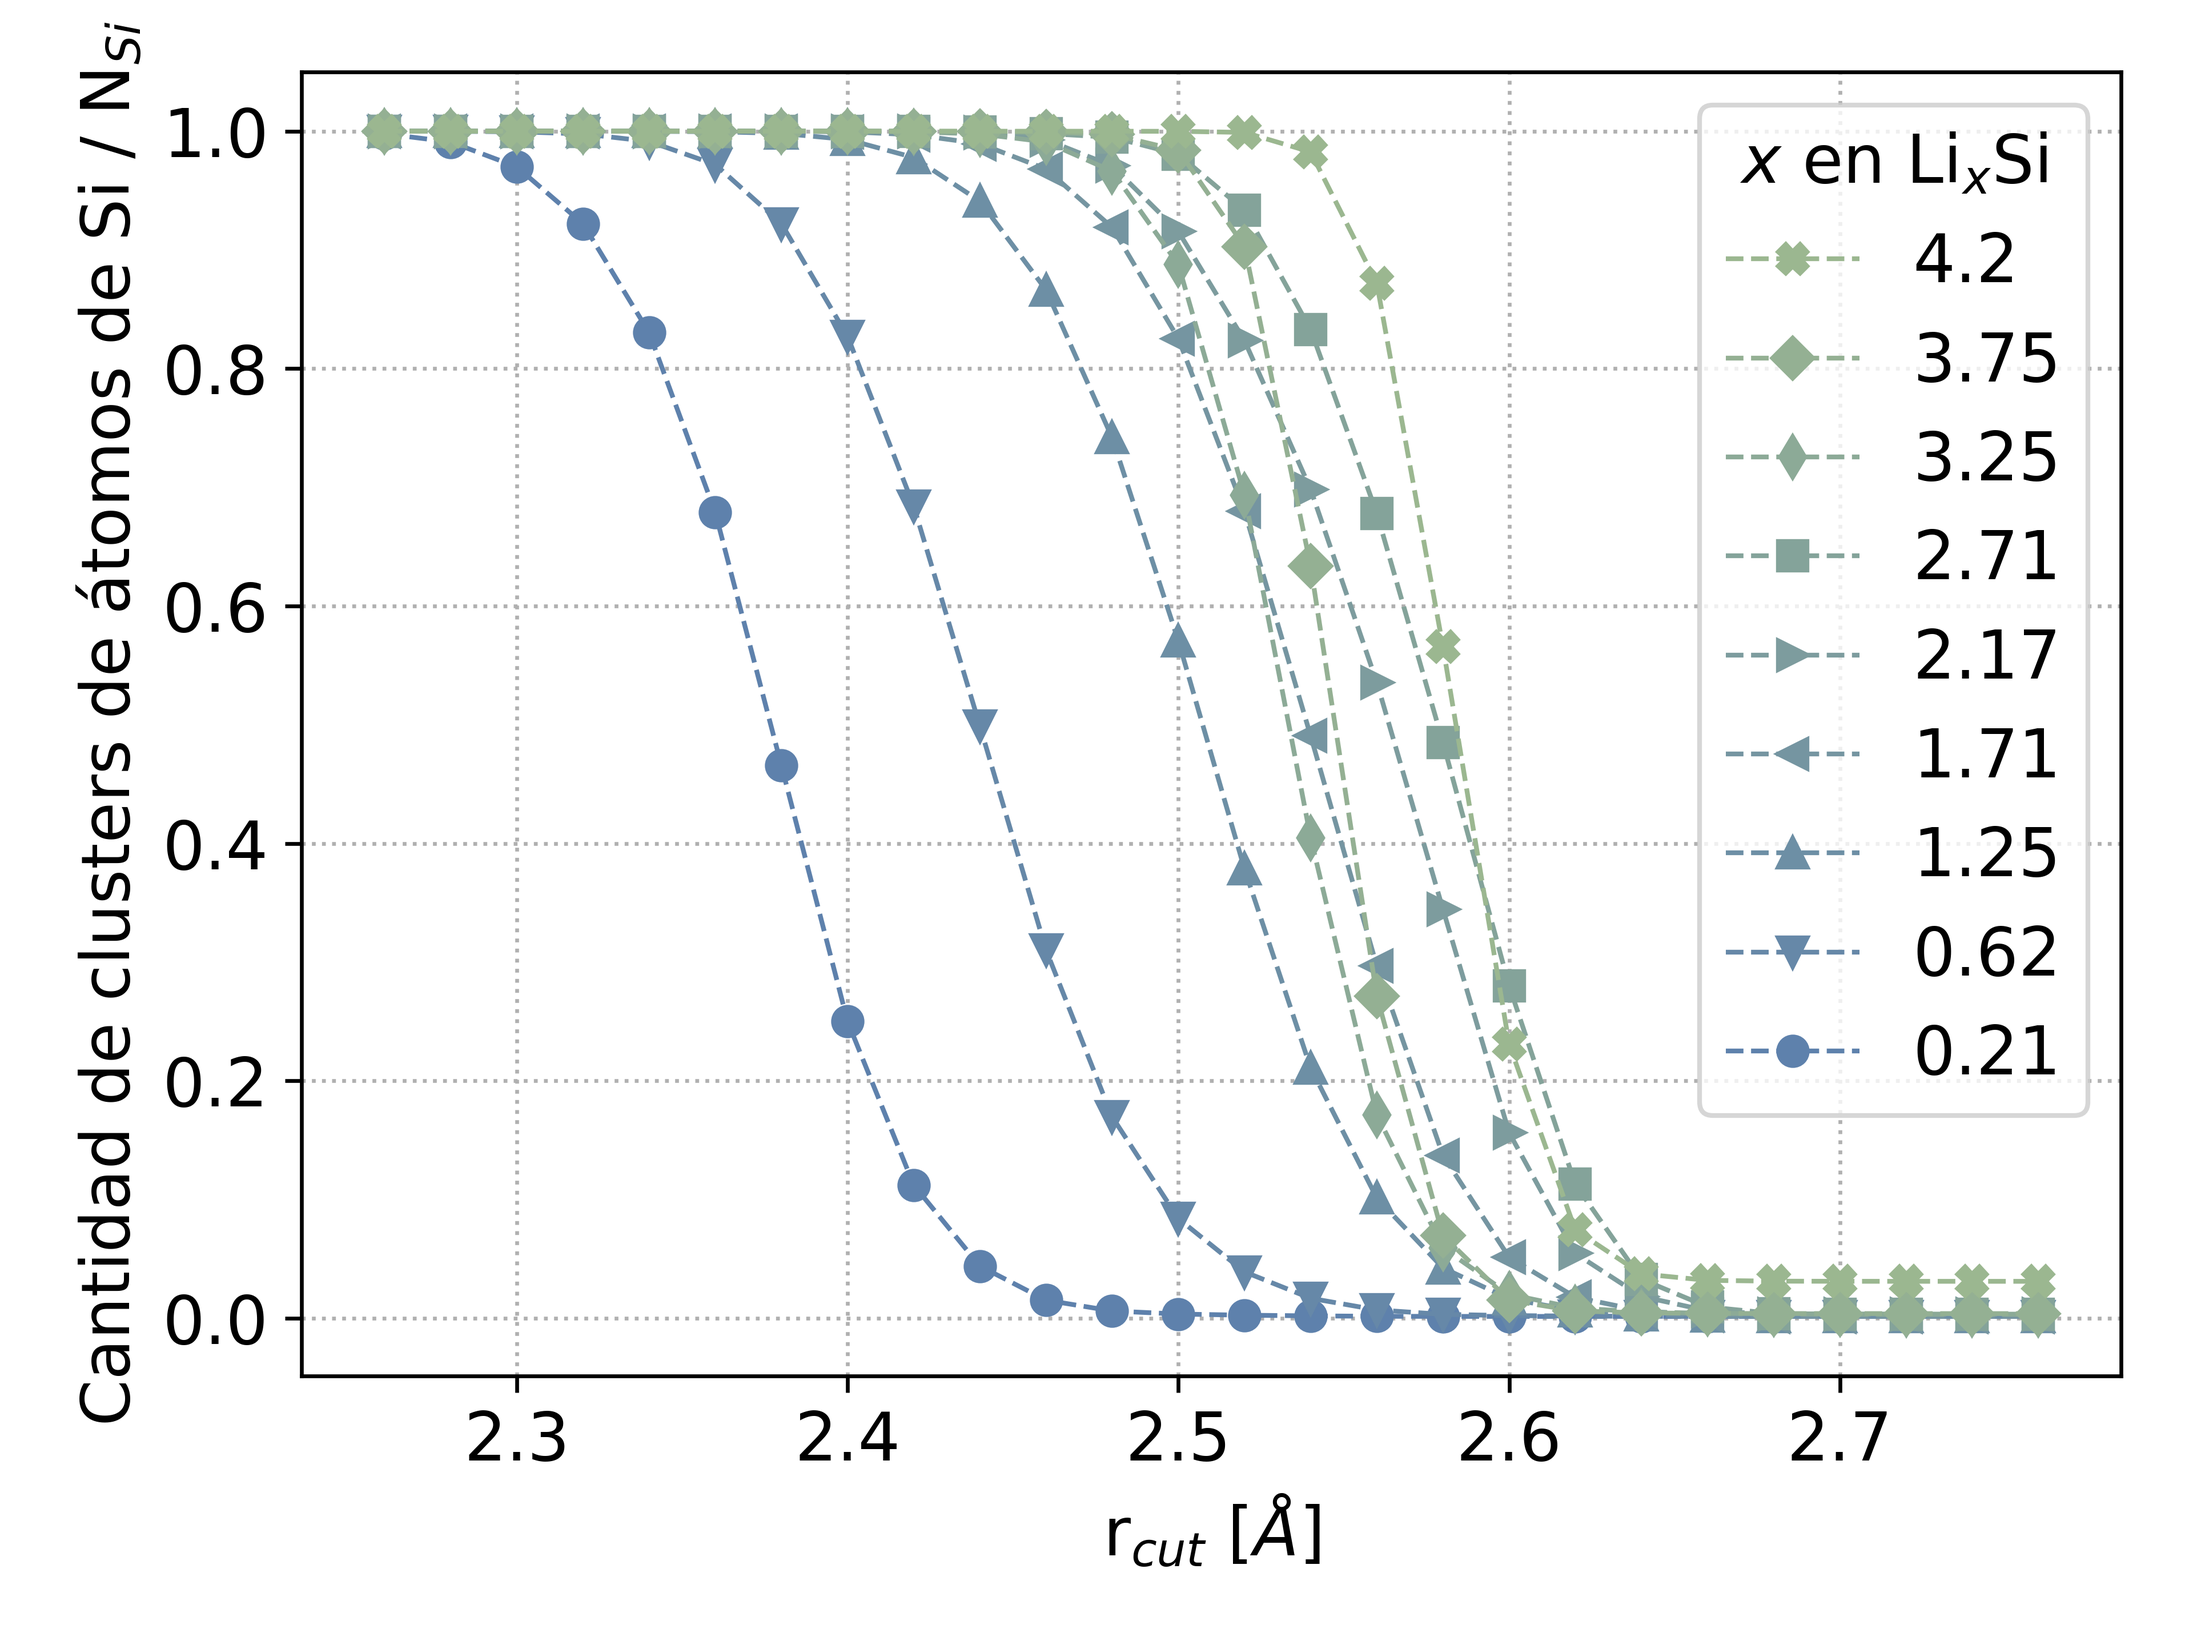
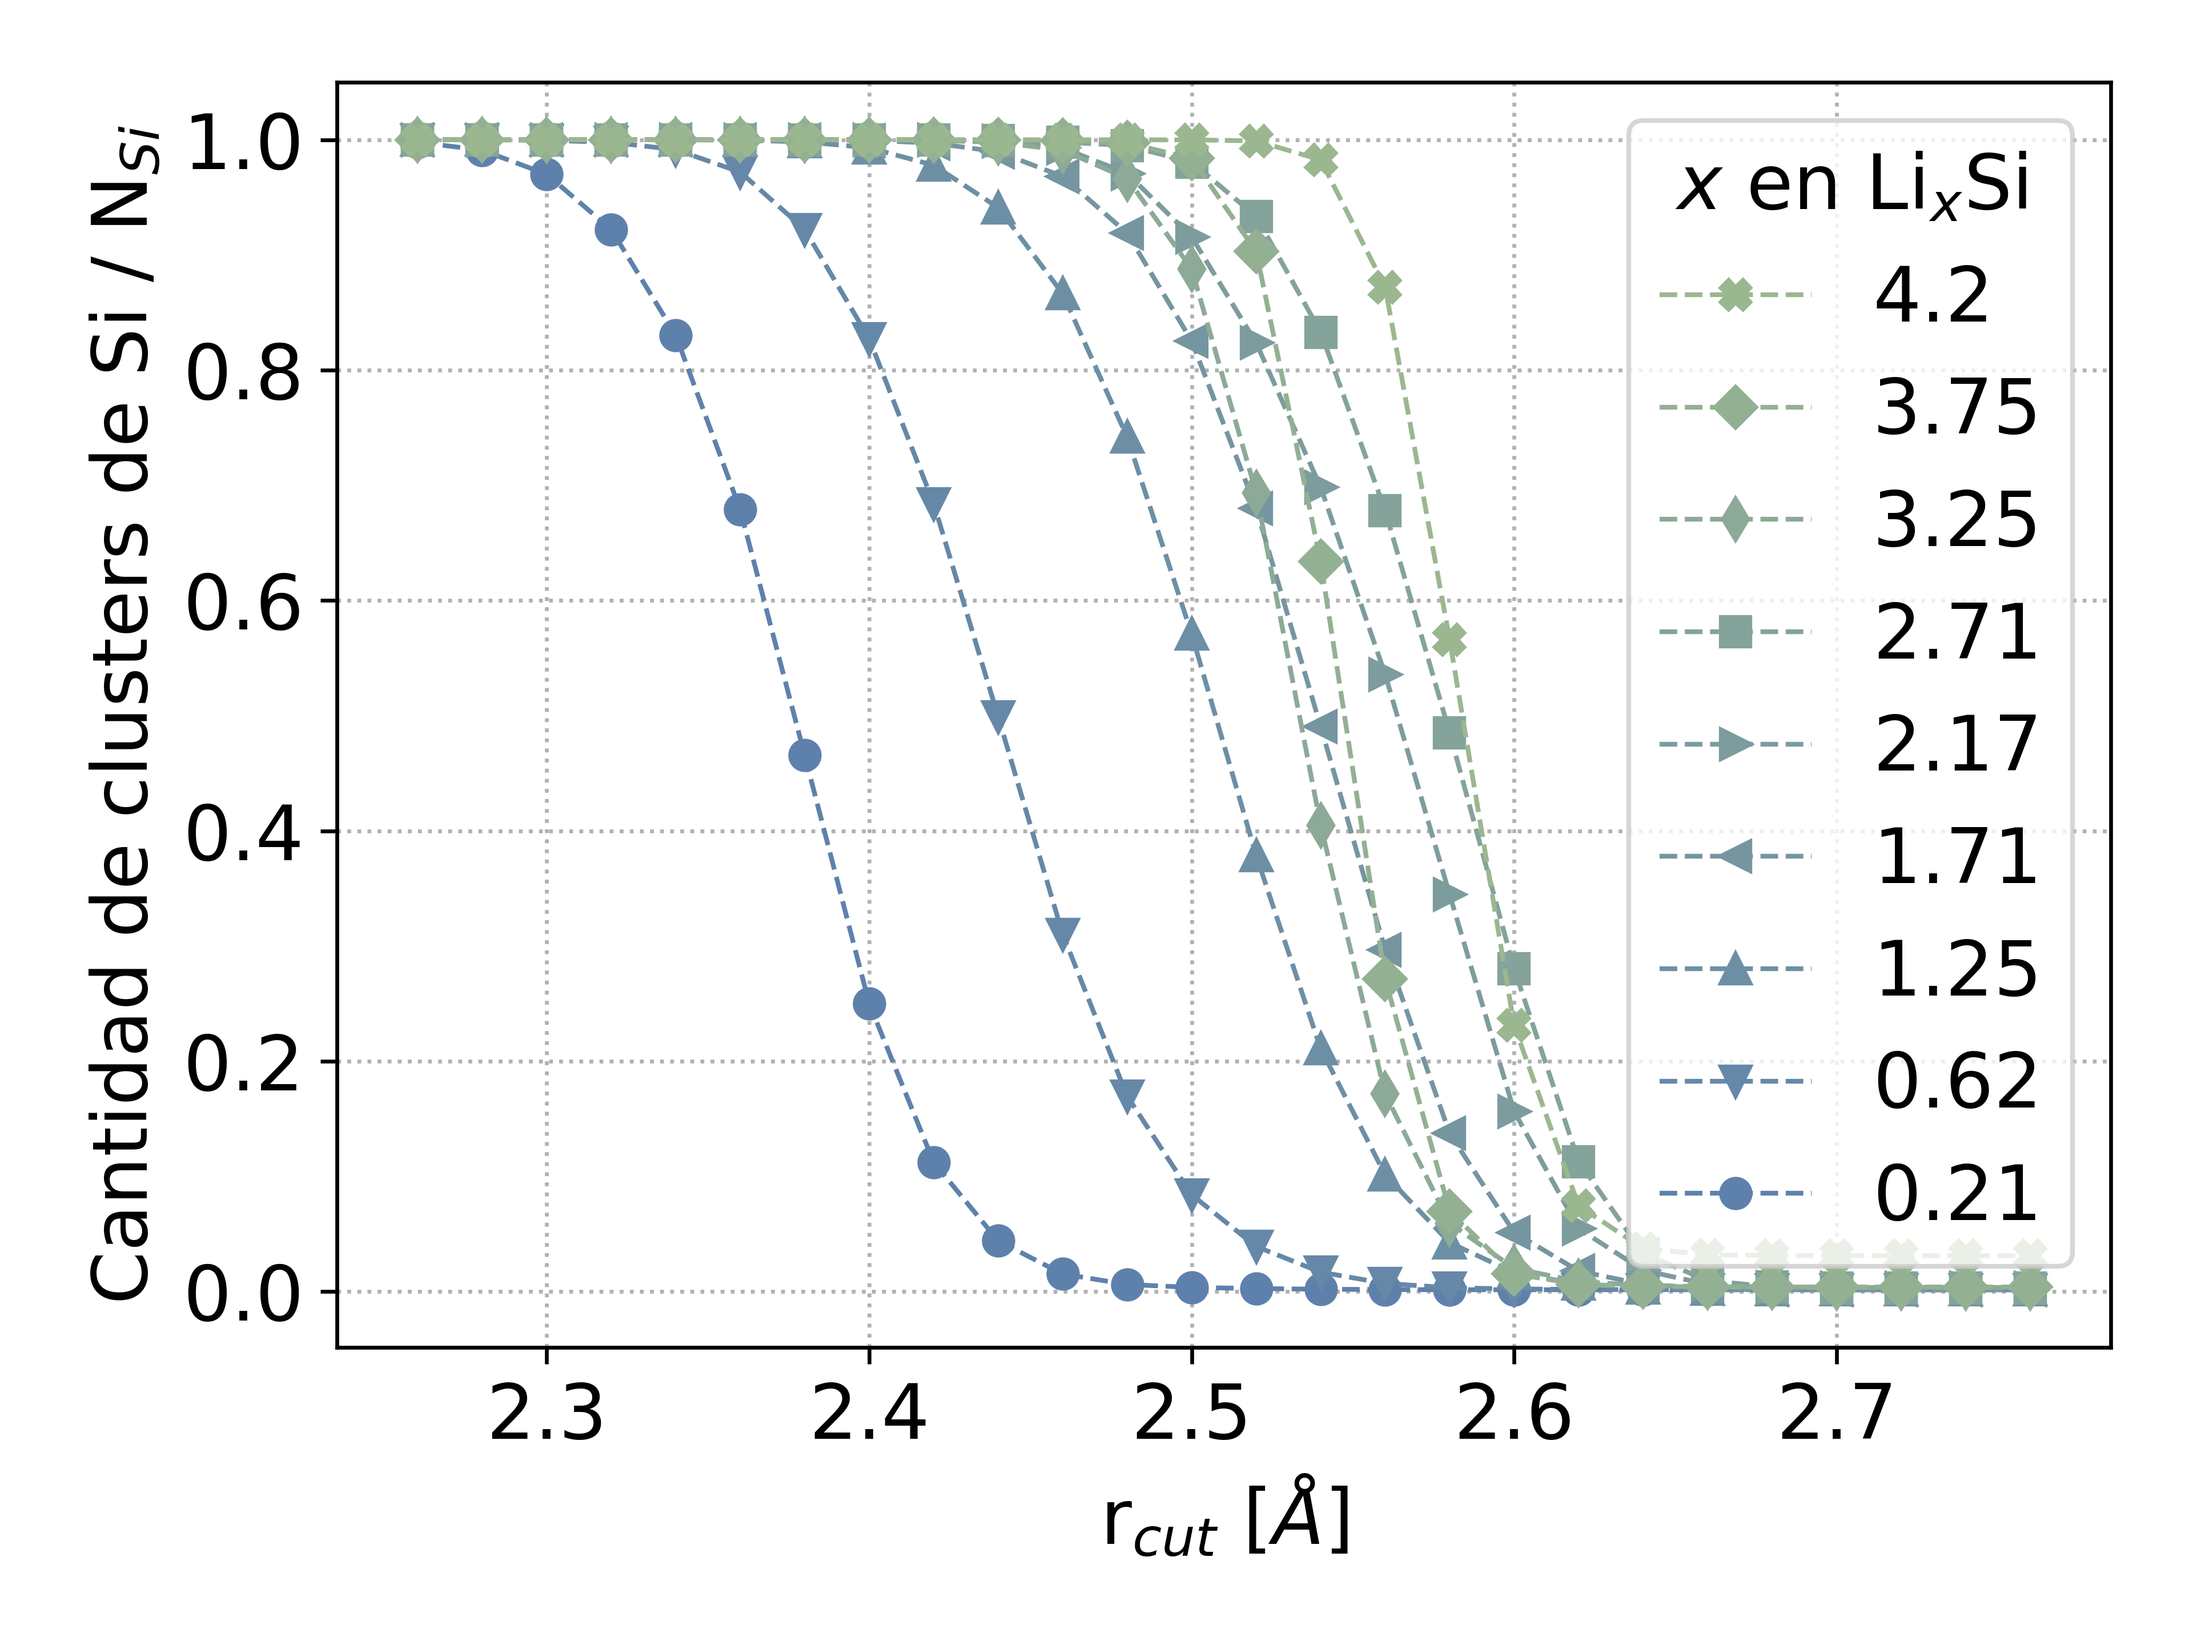
tamaño de la letra en los gráficos

diff --git a/src/figs/caracterizacion/voltaje.py b/src/figs/caracterizacion/voltaje.py
@@ -16,6 +16,7 @@ xdft, vdft = np.loadtxt("_data/voltaje/v-chev.dat", delimiter=",", unpack=True)
 xexp1, vexp1 = np.loadtxt("_data/voltaje/v1-exp.dat", delimiter=",", unpack=True)
 xexp2, vexp2 = np.loadtxt("_data/voltaje/v2-exp.dat", delimiter=",", unpack=True)
 
+plt.rcParams.update({"font.size": 12})
 fig, ax = plt.subplots()
 
 ax.set_xlabel(r"$x$ en Li$_x$Si")
@@ -37,7 +38,8 @@ ax.legend(loc=3)
 ####################        formation energy inset         #######################
 fontsize = 8
 
-left, bottom, width, height = [0.61, 0.527, 0.35, 0.35]
+# left, bottom, width, height = [0.61, 0.527, 0.35, 0.35]  # font.size default
+left, bottom, width, height = [0.55, 0.529, 0.35, 0.35]  # font.size 12
 ax2 = fig.add_axes([left, bottom, width, height])
 
 ax2.tick_params(axis="both", which="major", labelsize=fontsize)
@@ -54,6 +56,7 @@ ax2.plot(x, fes, color=nordred, label="spline")
 ax2.legend(prop={"size": fontsize})
 ##################################################################################
 
-fig.tight_layout()
+# fig.tight_layout()  # font.size default
 
 fig.savefig("voltaje.png", dpi=600)
+plt.show()

diff --git a/src/figs/caracterizacion/interconexiones.py b/src/figs/caracterizacion/interconexiones.py
@@ -18,6 +18,7 @@ nordcolors = [nordorange, nordpink, nordyellow, nordgreen, nordred, nordblue]
 concentraciones = np.array([[0.21, 0.62, 1.25], [1.71, 2.17, 2.71], [3.25, 3.75, 4.2]])
 labels = ["0 átomos", "1 átomo", "2 átomo", "3 átomos", "4 átomos", "+5 átomos"]
 
+plt.rcParams.update({"font.size": 12})
 fig, axes = plt.subplots(3, 3, sharex=True, sharey=True)
 
 fig.text(0.5, 0.005, r"r [$\AA$]", ha="center")
@@ -37,7 +38,7 @@ for conc, axis in zip(concentraciones, axes):
             ax.plot(ges[0], g, color=c, label=l)
         ax.plot(ges[0], ges[1:].sum(axis=0), color=nordgray, label="total")
 
-        ax.text(6, 1.55, f"x = {x}")
+        ax.text(5.75, 1.45, f"x = {x}")
 
         if x == 1.25:
             ax.legend(bbox_to_anchor=(1.04, 1), loc="upper left", prop={"size": 8})

diff --git a/src/figs/caracterizacion/energias.py b/src/figs/caracterizacion/energias.py
@@ -4,6 +4,7 @@
 """Todos los histogramas de energias potencial."""
 
 import matplotlib.pyplot as plt
+from matplotlib.ticker import FormatStrFormatter
 import numpy as np
 
 nordred = "#BF616A"
@@ -19,6 +20,7 @@ anchos = np.array(
     [[0.002, 0.001, 0.0009], [0.0009, 0.0009, 0.0009], [0.0009, 0.0009, 0.0009]]
 )
 
+plt.rcParams.update({"font.size": 12})
 fig, axes = plt.subplots(3, 3, sharey="row")
 
 fig.text(0.5, 0.005, "E / N [eV]", ha="center")
@@ -29,6 +31,8 @@ for conc, axis, anch in zip(concentraciones, axes, anchos):
 
         ax.grid(axis="x", linestyle=":")
         ax.set_ylim((0.0, 0.3))
+
+        ax.xaxis.set_major_formatter(FormatStrFormatter("%.2f"))
 
         if x in [0.21, 2.17, 4.2]:
             xx, yy = np.loadtxt(f"_data/energias/md/{x}.dat", unpack=True)

diff --git a/src/figs/introduccion/densidad_de_energia.py b/src/figs/introduccion/densidad_de_energia.py
@@ -15,6 +15,7 @@ nordgreen = "#A3BE8C"
 nordblue = "#5E81AC"
 
 
+plt.rcParams.update({"font.size": 12})
 fig, ax = plt.subplots()
 
 ax.set_xlim((0, 700))
@@ -23,8 +24,8 @@ ax.set_ylim((0, 1100))
 ax.set_xlabel(r"Densidad de energía gravimétrica [Wh/kg]")
 ax.set_ylabel(r"Densidad de energía volumétrica [Wh/L]")
 
-ax.text(500, 25, "Más livianas")
-ax.text(10, 800, "Más chicas", rotation="vertical")
+ax.text(475, 17.5, "Más livianas", fontsize=14)
+ax.text(10, 750, "Más chicas", rotation="vertical", fontsize=14)
 
 ax.arrow(40, 750, 0, 300, width=2, length_includes_head=True, head_length=15, head_width=5, color=nordgray)
 ax.arrow(475, 75, 180, 0, width=2, length_includes_head=True, head_length=10, head_width=10, color=nordgray)

diff --git a/src/figs/caracterizacion/cluster-nclusters.py b/src/figs/caracterizacion/cluster-nclusters.py
@@ -18,11 +18,11 @@ concentraciones = [0.21, 0.62, 1.25, 1.71, 2.17, 2.71, 3.25, 3.75, 4.2]
 nsis = [667, 670, 671, 672, 319, 319, 320, 288, 320]
 n = len(concentraciones)
 
-plt.rcParams.update({"font.size": 14})
+plt.rcParams.update({"font.size": 16})
 fig, ax = plt.subplots()
 
 ax.set_xlabel(r"r$_{cut}$ [$\AA$]")
-ax.set_ylabel(r"Cantidad de clusters de átomos de Si / N$_{Si}$")
+ax.set_ylabel(r"Cantidad de clusters de Si / N$_{Si}$")
 
 ax.grid(axis="both", linestyle=":")
 

diff --git a/src/figs/metodos/lj.py b/src/figs/metodos/lj.py
@@ -1,3 +1,5 @@
+#!/usr/bin/env python
+# -*- coding: utf-8 -*-
 import matplotlib.pyplot as plt
 import numpy as np
 
@@ -6,6 +8,8 @@ x = np.linspace(0.8, 4, 500)
 xinv6 = 1 / x ** 6
 xinv12 = 1 / x ** 12
 lj = 4 * (xinv12 - xinv6)
+
+plt.rcParams.update({"font.size": 12})
 
 plt.xticks([0, 1, 2, 3, 4])
 plt.xlim((0, 4))

diff --git a/src/figs/caracterizacion/cluster-isolated.py b/src/figs/caracterizacion/cluster-isolated.py
@@ -17,7 +17,7 @@ def color_fader(mix):
 concentraciones = [0.21, 0.62, 1.25, 1.71, 2.17, 2.71, 3.25, 3.75, 4.2]
 n = len(concentraciones)
 
-plt.rcParams.update({"font.size": 14})
+plt.rcParams.update({"font.size": 16})
 fig, ax = plt.subplots()
 
 ax.set_xlabel(r"r$_{cut}$ [$\AA$]")

diff --git a/src/figs/caracterizacion/fvc.py b/src/figs/caracterizacion/fvc.py
@@ -15,6 +15,7 @@ x, fvc = np.loadtxt("_data/fvc/fvc.dat", unpack=True)
 df = pd.read_csv("_data/fvc/afm.csv")
 xdft = np.array([0, 4.25])
 
+plt.rcParams.update({"font.size": 12})
 fig, ax = plt.subplots()
 
 ax.set_xlabel(r"$x$ en Li$_x$Si")

diff --git a/src/figs/caracterizacion/cn.py b/src/figs/caracterizacion/cn.py
@@ -10,6 +10,7 @@ nordblue = "#5E81AC"
 nordgreen = "#A3BE8C"
 nordorange = "#D08770"
 
+plt.rcParams.update({"font.size": 12})
 fig, ax = plt.subplots()
 
 ax.set_xlabel(r"$x$ en Li$_x$Si")

diff --git a/src/figs/caracterizacion/cn2.py b/src/figs/caracterizacion/cn2.py
@@ -10,6 +10,7 @@ nordblue = "#5E81AC"
 nordgreen = "#A3BE8C"
 nordorange = "#D08770"
 
+plt.rcParams.update({"font.size": 12})
 fig, ax = plt.subplots()
 
 ax.set_xlabel(r"$x$ en Li$_x$Si")

diff --git a/src/figs/caracterizacion/sro.py b/src/figs/caracterizacion/sro.py
@@ -10,6 +10,7 @@ nordblue = "#5E81AC"
 nordgreen = "#A3BE8C"
 nordorange = "#D08770"
 
+plt.rcParams.update({"font.size": 12})
 fig, ax = plt.subplots()
 
 ax.set_xlabel(r"$x$ en Li$_x$Si")

diff --git a/src/figs/caracterizacion/rdf.py b/src/figs/caracterizacion/rdf.py
@@ -34,6 +34,7 @@ if sys.argv[1] == "SiSi":
 e1 = sys.argv[1][:2]
 e2 = sys.argv[1][2:]
 
+plt.rcParams.update({"font.size": 12})
 fig, ax = plt.subplots()
 
 ax.set_xlabel(r"r [$\AA$]")
